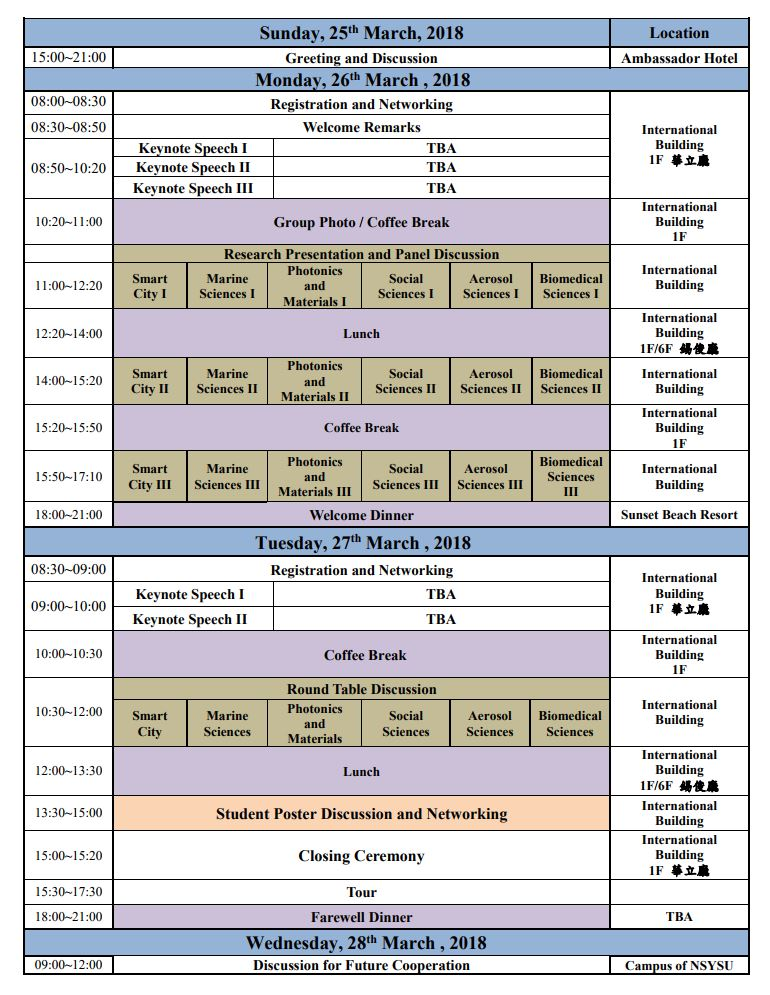
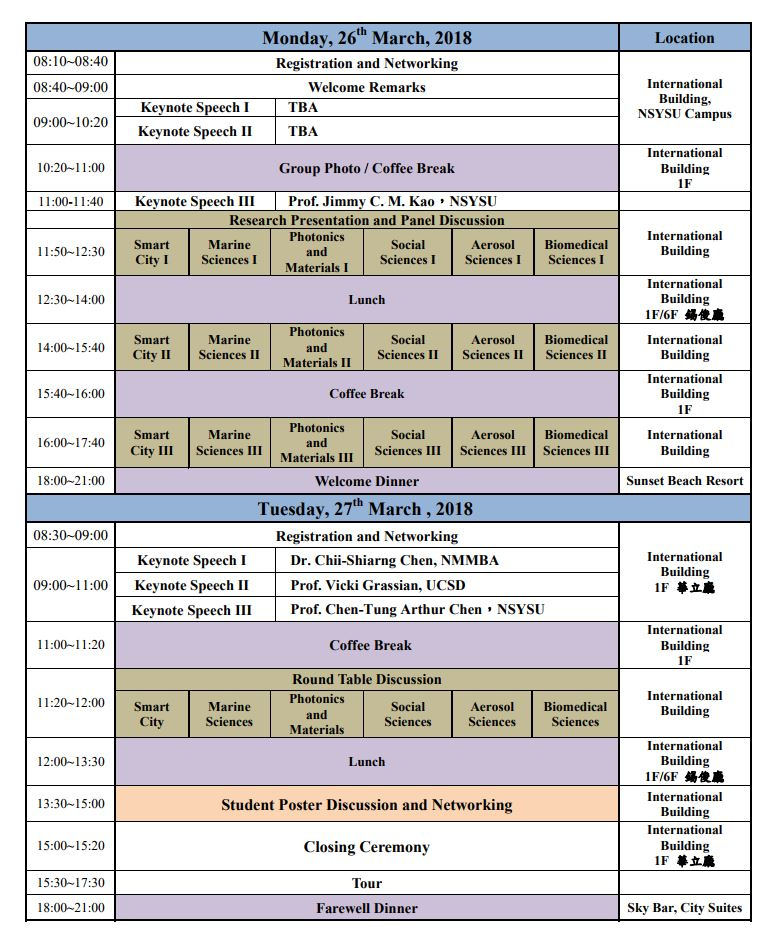
2018/1/31 1.technical program committee 2.symposium agenda 3.accommandation

diff --git a/index.html b/index.html
@@ -45,7 +45,7 @@
 					<a href="#" onclick='go_ats();'>About the Symposium</a>
 					<a href="#" onclick='go_cc();'>Conference Chair</a>
 					<a href="#" onclick='go_occ();'>Organizing Committee Chair</a>
-					<a href="#">Technical Program Committee</a>
+					<a href="#" onclick='go_tpc();'>Technical Program Committee</a>
 				</div>
 				<a href="#" data-toggle="collapse" style="color:white;font-size:20px">Program</a>
 				<div id="" class="collapse">
@@ -56,11 +56,11 @@
 				<a href="#col1" data-toggle="collapse" style="color:white;font-size:20px">Venue and Travel</a>
 				<div id="col1" class="collapse">
 					<a href="#" onclick='go_venue();'>Venue</a>
-					<a href="#">Accommodation</a>
+					<a href="#" onclick='go_accom();'>Accommodation</a>
 					<a href="#">Tour</a>
 				</div>
 				<a href="#" style="color:white;font-size:20px">Photos</a>
-				<a href="http://ora.nsysu.edu.tw/files/87-1049-2753.php?Lang=zh-tw" style="color:white;font-size:20px">Registration</a>
+				<a target="_blank" href="http://ora.nsysu.edu.tw/files/87-1049-2753.php?Lang=zh-tw" style="color:white;font-size:20px">Registration</a>
 				<a href="#" style="color:white;font-size:20px" onclick='go_contact();'>Contact Us</a>
 			</div>
 		</div>
@@ -88,7 +88,7 @@
 								<li><a href="#" onclick='go_ats();'>About the Symposium</a></li>
 								<li><a href="#" onclick='go_cc();'>Conference Chair</a></li>
 								<li><a href="#" onclick='go_occ();'>Organizing Committee Chair</a></li>
-								<li><a href="#">Technical Program Committee</a></li>
+								<li><a href="#" onclick='go_tpc();'>Technical Program Committee</a></li>
 							</ul>
 						</li><!-- data-toggle="dropdown" for click-->
 						<li class="dropdown"><a  href="#">Program</a>
@@ -101,13 +101,13 @@
 						<li class="dropdown"><a  href="#">Venue and Travel</a>
 							<ul class="dropdown-menu" style="padding-top: 0px;">
 								<li><a href="#" onclick='go_venue();'>Venue</a></li>
-								<li><a href="#">Accommodation</a></li>
+								<li><a href="#" onclick='go_accom();'>Accommodation</a></li>
 								<li><a href="#">Tour</a></li>
 							</ul>
 						</li>
 						<li class="dropdown"><a href="#">Photos</a>
 						</li>
-						<li class="dropdown"><a href="http://ora.nsysu.edu.tw/files/87-1049-2753.php?Lang=zh-tw">Registration</a>
+						<li class="dropdown"><a target="_blank" href="http://ora.nsysu.edu.tw/files/87-1049-2753.php?Lang=zh-tw">Registration</a>
 						</li>
 						<li class="dropdown"><a href="#" onclick='go_contact();'>Contact Us</a>
 						</li>			  
@@ -123,7 +123,7 @@
 				</div>
 			
 				<!--<div class="col-md-4" style="text-align:center"></div>-->
-				<div id="left_parent2"><!--class="col-md-12"-->
+				<div id="left_parent2" ><!--class="col-md-12"-->
 					<div class="news left_ele">
 						<span class="news_title">News & Events</span>
 						<div class="news_info">

diff --git a/index.js b/index.js
@@ -92,9 +92,15 @@ var elementMove=function () {
 function go_agenda(){
 	
 	var parent = $('#left_parent');
+	var parent2 = $('#left_parent2');
 	$('.left_ele').remove();
-	var newele = '<iframe class="left_ele" style="margin-left:5%;"width="1000px" height="1000px" src="agenda.JPG" frameborder="0"  allow="encrypted-media" allowfullscreen></iframe>';
+	var newele = `
+	<div class="left_ele title_css">
+		Symposium Agenda
+	</div>`;
+	var newele2 = '<div style="text-align:center"><iframe class="left_ele" style="margin-left:5%;"width="850px" height="1000px" src="agenda.JPG" frameborder="0"  allow="encrypted-media" allowfullscreen></iframe></div>';
 	parent.append(newele);
+	parent2.append(newele2);
 	
 	current_page_position = 'go_agenda';
 	
@@ -233,6 +239,20 @@ Specialization :
 	
 }
 
+/*For technical program committee*/
+function go_tpc(){
+	var parent = $('#left_parent');
+	var parent2 = $('#left_parent2');
+	$('.left_ele').remove();
+	var newele = `
+	<div class="left_ele title_css">
+		Technical Program Committee
+	</div>`;
+	var newele2 = '<div class="left_ele" style="text-align:center"><iframe style="margin-left:5%;"width="850px" height="1000px" src="tpc.JPG" frameborder="0"  allow="encrypted-media" allowfullscreen></iframe></div>';
+	parent.append(newele);
+	parent2.append(newele2);
+}
+
 function go_venue(){
 	var parent = $('#left_parent');
 	var parent2 = $('#left_parent2');
@@ -292,6 +312,25 @@ function go_contact(){
 	parent.append(newele);
 	parent.append(newele2);
 	
+}
+
+function go_accom(){
+	var parent = $('#left_parent');
+	var parent2 = $('#left_parent2');
+	$('.left_ele').remove();
+	var newele = `
+	<div class="left_ele title_css">
+		Accommodation
+	</div>`;
+	
+	
+	var newele2 = `
+		<div class="left_ele" style="text-align:center"><a target="_blank" href="https://www.ambassador-hotels.com/tc/kaohsiung">
+		  <img  src="guobin.jpg" alt="error" style="width:300px;height:250px;border:0;">
+		</a></div>
+	`;
+	parent.append(newele);
+	parent2.append(newele2);
 }
 
 /*=================Responsive Desgin======================*/
